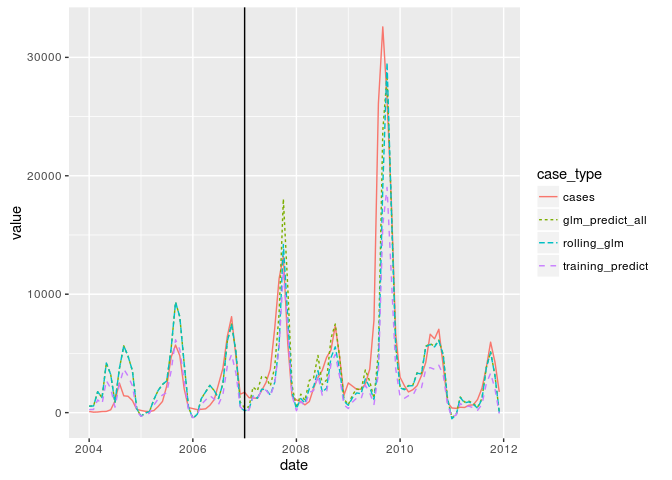
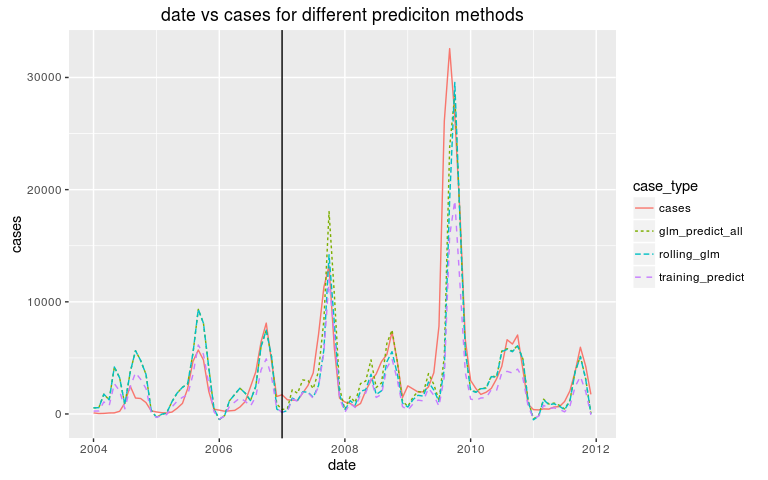
remove warnings, update final plot width and title

diff --git a/sismid_10-statistics_and_modeling_with_novel_data_streams/dengue/dengue.md b/sismid_10-statistics_and_modeling_with_novel_data_streams/dengue/dengue.md
@@ -251,18 +251,6 @@ multiplot(g1 + xlim(-1, 6) + ylim(0, 30000),
           g2 + xlim(-1, 6) + ylim(0, 30000))
 ```
 
-```
-## Warning: Removed 5 rows containing missing values (geom_path).
-```
-
-```
-## Warning: Removed 1 rows containing missing values (geom_point).
-```
-
-```
-## Warning: Removed 3 rows containing missing values (geom_path).
-```
-
 ![](dengue_files/figure-html/unnamed-chunk-11-1.png)<!-- -->
 
 
@@ -305,7 +293,10 @@ loc_2007 <- match(2007, year(dengue_long$date))
 ggplot(data = dengue_long, aes(x = date, y = value,
                                color = case_type, linetype = case_type)) +
     geom_line() +
-    geom_vline(xintercept = as.numeric(dengue_long$date[loc_2007]))
+    geom_vline(xintercept = as.numeric(dengue_long$date[loc_2007])) +
+    ggtitle('date vs cases for different prediciton methods') +
+    xlab('date') +
+    ylab('cases')
 ```
 
 ![](dengue_files/figure-html/unnamed-chunk-14-1.png)<!-- -->
